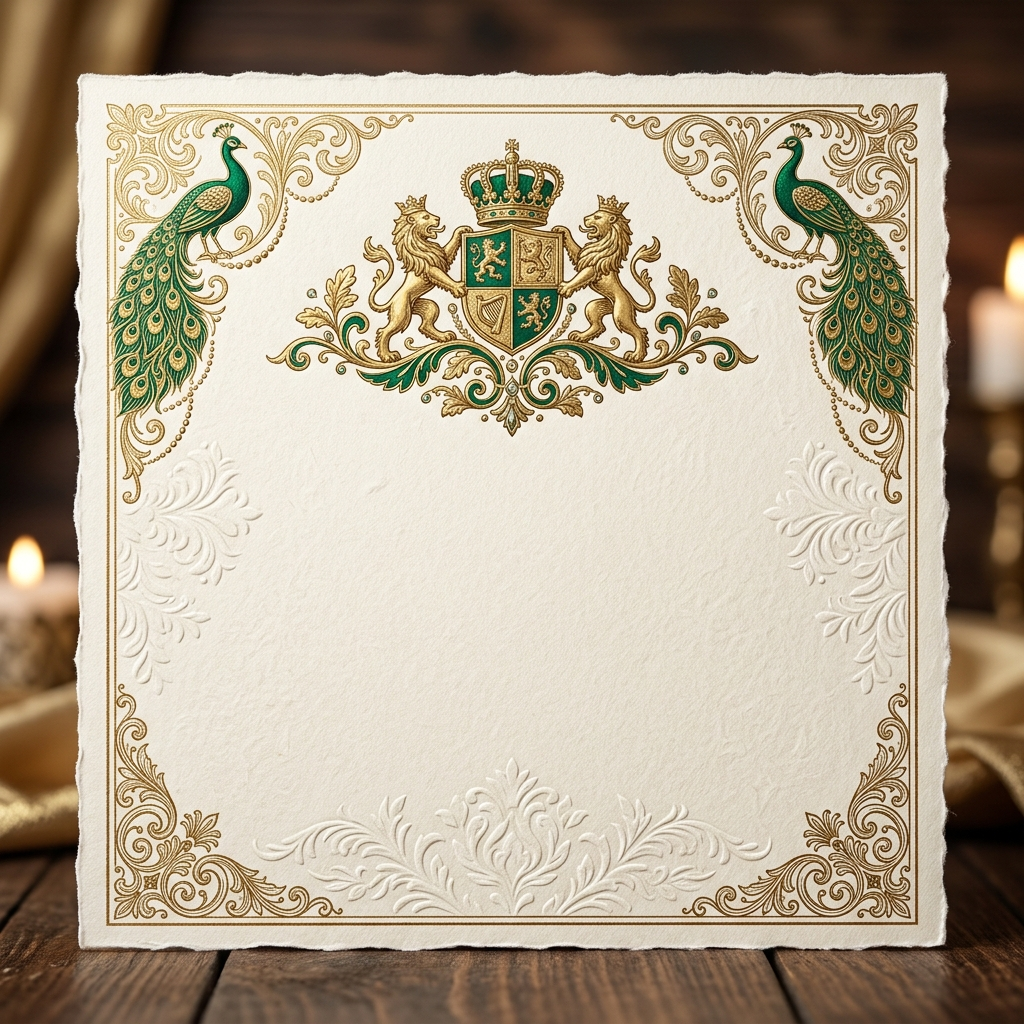
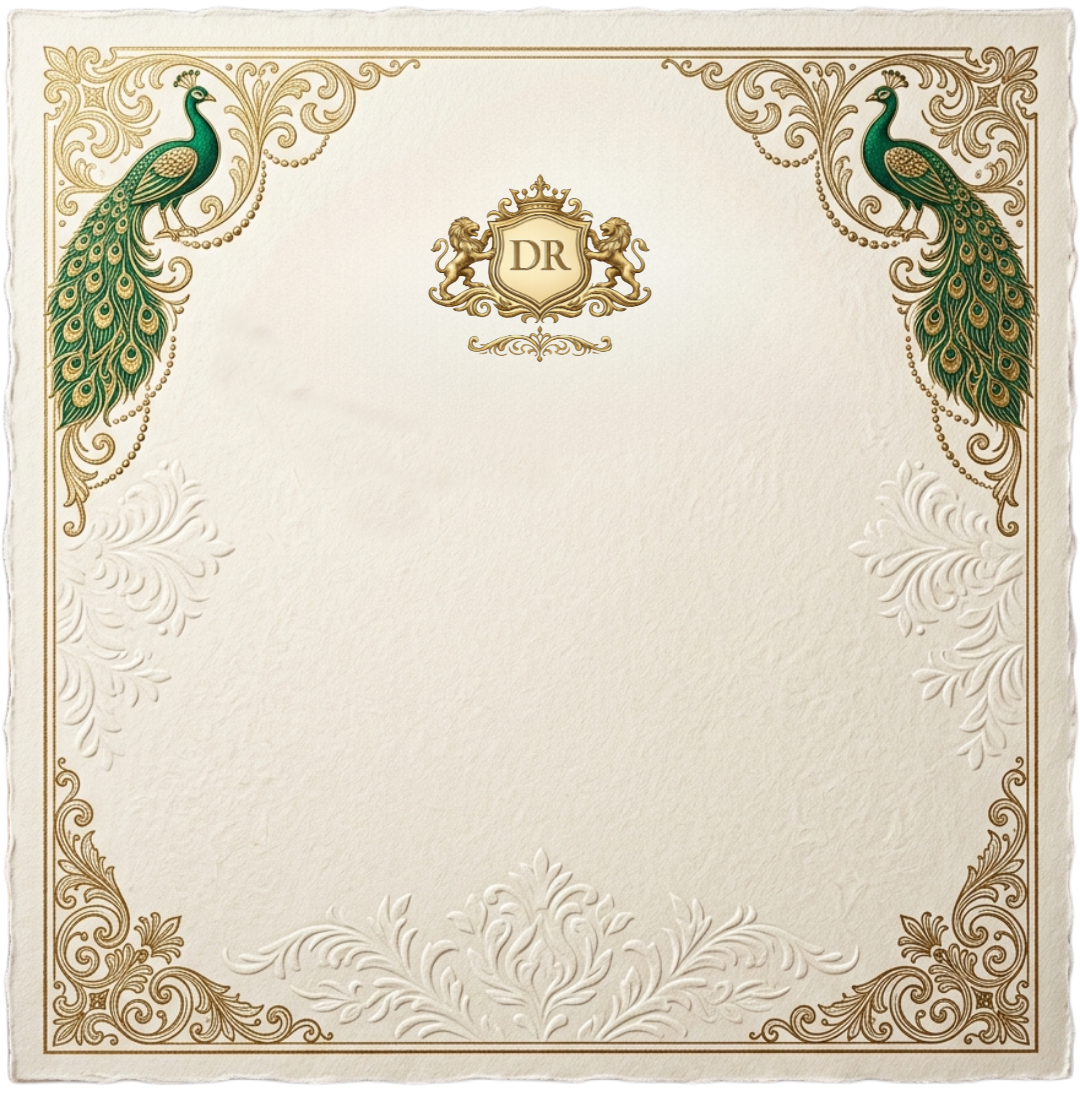
Adjust card background size and remove DR monogram

diff --git a/index.html b/index.html
@@ -35,7 +35,6 @@
                     <div id="invitation-card" class="invitation-card">
                         <div class="card-inner">
                             <span class="card-tag">Save the Date</span>
-                            <div class="card-monogram">DR</div>
                             <h2 class="card-names">Dristy & Ratul</h2>
                             <div class="card-date-box">
                                 <span class="card-date-day">01</span>

diff --git a/style.css b/style.css
@@ -189,8 +189,8 @@ body {
     left: 6%;
     background-color: #fdfbf8;
     background-image: url('assets/card-bg.png');
-    background-size: cover;
-    background-position: center;
+    background-size: 100% 100%;
+    background-position: top center;
     border: none;
     box-shadow: 0 15px 35px rgba(0,0,0,0.15);
     z-index: 2;
